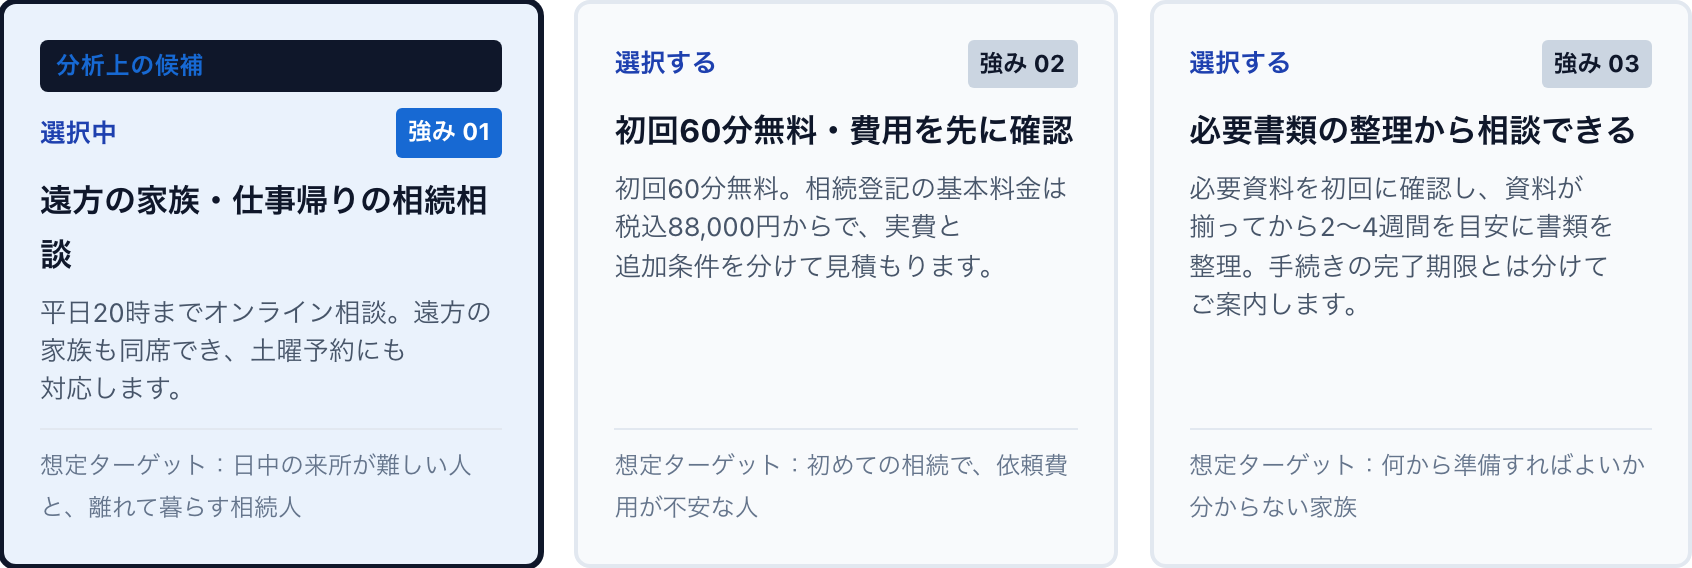
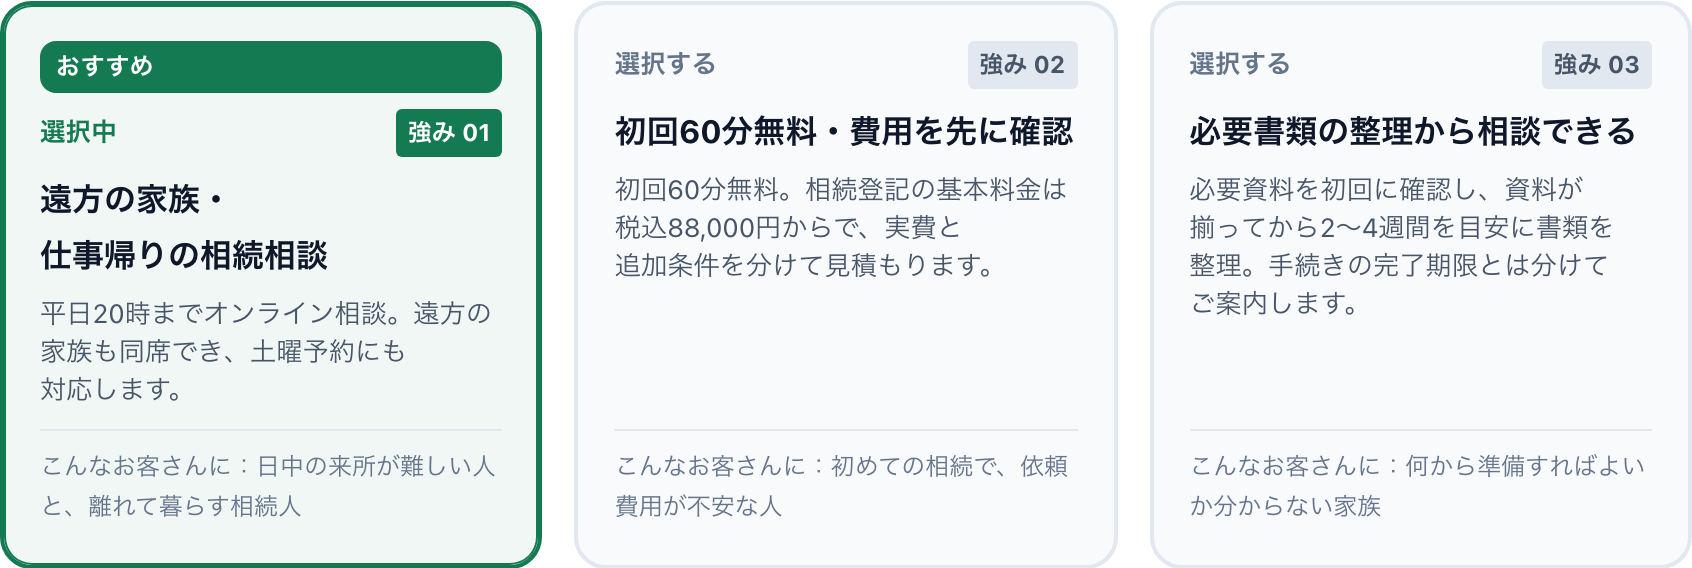
fix(flow): 入力から結果・見守り開始まで行き止まりなく進めるように作り直し
- ホームページがない・Instagramだけの会社も「この名前で診断する」を主ボタンに（公開を先に求めない）。URLがあれば入れて診断も可能
- 開発中（AIキー未設定・非本番）は本物と同じ段階表示のあと見本の結果へ進むデモに。結果・見守り画面に「デモ・あなたの結果ではありません」を明示（本番では無効）
- 名前だけの診断中は「◯◯を調べています」と表示
- 強み選択を平易な言葉とブランド色に、下書き後に次の一手（毎週の見守り14日間無料）を表示
- 結果画面の上部ナビを本文の見出しと一致、スマホでは最小限に
- トップ掲載の実画面を撮り直し

diff --git a/components/scan-progress.tsx b/components/scan-progress.tsx
@@ -70,6 +70,7 @@ export function ScanProgress() {
     extraProduct ? extraProduct : socialInfo.username ? socialInfo.username : rawInput
   );
   const [directCreating, setDirectCreating] = useState(false);
+  const [altUrl, setAltUrl] = useState("");
   const [directDraft, setDirectDraft] = useState<{ profileId: string; token: string; slug: string } | null>(null);
 
   const createDirectProfile = useCallback(async () => {
@@ -125,9 +126,9 @@ export function ScanProgress() {
     }
   }, [directDraft, router]);
 
-  const startScan = useCallback(async (inputUrl: string) => {
+  const startScan = useCallback(async (inputUrl: string, nameOnly = "") => {
     const targetUrl = normalize(inputUrl);
-    if (!targetUrl) {
+    if (!targetUrl && !nameOnly) {
       setPhase("failed");
       setError("診断する公開サイトがありません。");
       return;
@@ -142,9 +143,30 @@ export function ScanProgress() {
     setMessage("診断を準備しています。");
     setDetail("診断先を確認しています");
     try {
-      const response = await fetch("/api/scan", { method: "POST", headers: { "content-type": "application/json", accept: "application/x-ndjson" }, body: JSON.stringify({ url: targetUrl }), signal: abort.signal });
+      const response = await fetch("/api/scan", { method: "POST", headers: { "content-type": "application/json", accept: "application/x-ndjson" }, body: JSON.stringify(targetUrl ? { url: targetUrl } : { name: nameOnly }), signal: abort.signal });
       if (!response.ok) {
-        const data = await response.json().catch(() => ({}));
+        const data = await response.json().catch(() => ({})) as { error?: string; demo?: boolean };
+        if (data.demo) {
+          // 開発中のデモ：本物と同じ段階表示のあと、見本のお店の結果へ進む（結果画面に「デモ」と明記）
+          for (const [index, item] of steps.entries()) {
+            if (abort.signal.aborted) return;
+            setStage(item.stage);
+            setProgress(Math.round(((index + 1) / steps.length) * 95));
+            setMessage(`${item.label}…（デモ）`);
+            setDetail("AIの接続前のため、見本のお店のデータで流れを表示しています");
+            await new Promise((resolve) => setTimeout(resolve, 700));
+          }
+          if (abort.signal.aborted) return;
+          setProgress(100); setStage("complete"); setMessage("結果をまとめました。");
+          router.replace("/result?sample=1&demo=1");
+          return;
+        }
+        if (!targetUrl) {
+          // ホームページなしの診断は、先に御社のページの下書きをつくってから行う
+          setPhase("no_site");
+          setError(data.error || "ホームページなしの診断は、先に御社のページの下書きをつくってから行います。");
+          return;
+        }
         throw new Error(data.error || `診断を開始できませんでした (${response.status})`);
       }
       if (!response.body) throw new Error("診断の進行状況を取得できませんでした。");
@@ -293,12 +315,12 @@ export function ScanProgress() {
       : `「${displayInput(rawInput)}」の診断を始めます`;
 
     const descText = isSocial
-      ? "Instagramの公開情報をもとに、AIが読める御社のページの下書きをつくります。載せる内容はあなたが確認してから決めます。公開したあと、そのページをもとにAIの答えを診断します。"
+      ? "このInstagramのお店の名前で、AIの答えに御社が出ているかを調べます。AIが読めるページは、結果を見たあとにつくれます。"
       : isProduct
-      ? "入力された商品・サービス名をもとに、AIが読めるページの下書きをつくります。価格・実績など、確認できない内容は補いません。公開したあと、AIの答えを診断します。"
+      ? "この商品・サービスの名前で、AIの答えに出ているかを調べます。AIが読めるページは、結果を見たあとにつくれます。"
       : isDirectPreview
       ? "下書きの内容を確かめてから公開できます。公開したあと、このページをもとにAIの答えを診断します。AIの答え・順位・集客は保証しません。"
-      : "ホームページは見つかりませんでしたが、店名だけでも大丈夫です。まずAIが読める御社のページの下書きをつくり、公開したあと、そのページをもとにAIの答えを診断します。";
+      : "ホームページが見つからなくても大丈夫です。この名前で、AIの答えに御社が出ているかを調べます。";
 
     const brandLabel = isSocial
       ? "店舗名・屋号・ブランド名"
@@ -328,7 +350,7 @@ export function ScanProgress() {
             <h1>{titleText}</h1>
             <p className="no-site-desc">{descText}</p>
 
-            <div className="no-site-form-grid no-site-form-grid--single">
+            {isDirectPreview ? <div className="no-site-form-grid no-site-form-grid--single">
               <div className="no-site-input-group">
                 <span>{isDirectPreview ? "公開する名称" : brandLabel}</span>
                 <p className="input-readonly">{directBrandName || rawInput}</p>
@@ -339,22 +361,37 @@ export function ScanProgress() {
                   <p className="no-site-input-note">入力された名称{extraSocial || socialInfo.isSocial ? "・SNS参照先" : ""}{extraProduct ? "・商品／サービス名" : ""}{extraUrl ? "・参照元URL" : ""}。未確認の業種・所在地・価格・実績は追加していません。</p>
                 </div>
               ) : null}
-            </div>
+            </div> : null}
 
             <div className="no-site-action-row">
               <div className="no-site-target-brand">
-                <span>この名前で進みます</span>
+                <span>この名前で調べます</span>
                 <strong>{socialInfo.displayLabel || directBrandName || rawInput}</strong>
               </div>
-              <button
-                className="button button-primary scan-resolve-start"
-                type="button"
-                disabled={directCreating}
-                onClick={() => void (isDirectPreview ? publishDirectProfile() : createDirectProfile())}
-              >
-                {directCreating ? (isDirectPreview ? "公開処理中…" : "下書きを作成中…") : buttonText} <ArrowIcon />
-              </button>
+              {isDirectPreview ? (
+                <button className="button button-primary scan-resolve-start" type="button" disabled={directCreating} onClick={() => void publishDirectProfile()}>
+                  {directCreating ? "公開処理中…" : buttonText} <ArrowIcon />
+                </button>
+              ) : (
+                <button className="button button-primary scan-resolve-start" type="button" disabled={directCreating} onClick={() => void startScan("", directBrandName || rawInput)}>
+                  この名前で診断する（無料） <ArrowIcon />
+                </button>
+              )}
             </div>
+            {!isDirectPreview ? (
+              <form className="no-site-url-row" onSubmit={(event) => { event.preventDefault(); if (altUrl.trim()) void startScan(altUrl.trim()); }}>
+                <label htmlFor="no-site-url">ホームページがある場合は、URLを入れるとより正確に調べられます</label>
+                <div>
+                  <input id="no-site-url" type="url" inputMode="url" placeholder="https://" value={altUrl} onChange={(event) => setAltUrl(event.target.value)} />
+                  <button className="button button-secondary" type="submit" disabled={!altUrl.trim()}>このURLで診断</button>
+                </div>
+              </form>
+            ) : null}
+            {!isDirectPreview ? (
+              <button className="text-button no-site-draft-link" type="button" disabled={directCreating} onClick={() => void createDirectProfile()}>
+                {directCreating ? "下書きを作成中…" : "先にAIが読めるページの下書きをつくる →"}
+              </button>
+            ) : null}
             {directDraft ? <ProfileManagementLink capability={{ profileId: directDraft.profileId, token: directDraft.token }} /> : null}
             {error ? <p className="form-error no-site-error">{error}</p> : null}
             <small className="no-site-small-note">{noteText}</small>
@@ -452,7 +489,7 @@ export function ScanProgress() {
     <section className="scan-stage shell">
       <div className="scan-stage-main">
         <p className="overline">診断中</p>
-        <h1>{targetHost || "会社サイト"}を確認しています。</h1>
+        <h1>{targetHost ? `${targetHost}を確認しています。` : `「${displayInput(rawInput)}」を調べています。`}</h1>
         <p className="scan-message">{message}</p>
         <div className="scan-progress-track" aria-label={`進捗 ${Math.round(progress)}%`}><span style={{ width: `${progress}%` }} /></div>
         <div className="scan-progress-summary"><strong>{Math.round(progress)}%</strong><span>{detail}</span></div>

diff --git a/app/globals.css b/app/globals.css
@@ -3877,8 +3877,7 @@ svg { width: 1.1em; height: 1.1em; }
 .report-page .report-watch h2 { margin: 12px 0; color: var(--bg); font-size: clamp(26px, 3.2vw, 36px); line-height: 1.4; letter-spacing: 0; }
 .report-page .report-watch p { color: var(--border-strong); font-size: 16px; line-height: 1.8; }
 .report-page .report-watch ul { flex-direction: column; gap: 8px; margin-top: 20px; font-size: 15px; color: var(--bg); }
-.report-page .report-watch li + li::before { content: none; }
-.report-page .report-watch li::before { content: "✓"; color: var(--green-bright); font-weight: 700; margin-right: 8px; }
+.report-page .report-watch li::before, .report-page .report-watch li + li::before { content: "✓"; color: var(--green-bright); font-weight: 700; margin-right: 8px; }
 .report-page .report-watch form { background: var(--bg); border-radius: 20px; padding: 24px; display: flex; flex-direction: column; gap: 10px; }
 .report-page .report-watch label { font-size: 15px; }
 .report-page .report-watch form .button { justify-content: center; min-height: 56px; font-size: 16px; white-space: normal; }
@@ -4110,3 +4109,29 @@ svg { width: 1.1em; height: 1.1em; }
 .rp-hero-cta .button-secondary { background: transparent; color: var(--bg); border-color: rgba(255, 255, 255, 0.4); }
 @media (max-width: 640px) { .rp-hero-cta-actions, .rp-hero-cta-actions .button { width: 100%; } }
 .pg-hero--compact + .pg-doc { padding-top: var(--sp-4); }
+.rp-demo-banner { background: var(--warn); color: var(--bg); font-size: 15px; line-height: 1.7; padding: 12px 0; }
+.rp-demo-banner strong { margin-right: 6px; }
+.no-site-draft-link { display: block; margin: 14px auto 0; font-size: 14px; color: var(--text-muted); text-decoration: underline; background: none; border: 0; cursor: pointer; }
+.scan-page h1 { word-break: auto-phrase; text-wrap: balance; }
+.no-site-url-row { display: flex; flex-direction: column; gap: 8px; margin-top: 18px; padding-top: 18px; border-top: 1px dashed var(--border-strong); }
+.no-site-url-row label { font-size: 14px; color: var(--text-muted); }
+.no-site-url-row > div { display: flex; gap: 8px; }
+.no-site-url-row input { flex: 1; min-width: 0; height: 48px; border: 1px solid var(--border-strong); border-radius: 10px; padding: 0 12px; font-size: 16px; }
+@media (max-width: 640px) { .no-site-url-row > div { flex-direction: column; } }
+.saved-redo { display: block; margin-top: 10px; background: none; border: 0; padding: 0; font-size: 14px; color: var(--text-muted); text-decoration: underline; cursor: pointer; }
+.saved-links { display: flex; flex-wrap: wrap; gap: 10px; }
+/* 結果・見守りの上部バー：スマホでは本題を上に出すため最小限に */
+@media (max-width: 640px) {
+  .report-subbar-nav, .report-subbar-brand { display: none !important; }
+  .report-subbar-inner { padding-top: 8px; padding-bottom: 8px; gap: 6px; }
+}
+[id^="step-"] { scroll-margin-top: 16px; }
+/* 強みの選択カード：ブランド色（緑）に統一し、読みやすく */
+.weapon-card { border-radius: 16px !important; }
+.weapon-card.selected { border-color: var(--brand) !important; background: var(--mint-panel) !important; box-shadow: 0 0 0 1px var(--brand) inset !important; }
+.card-top-recommend-badge { background: var(--brand) !important; color: var(--bg) !important; font-weight: 700; border-radius: 8px !important; }
+.weapon-radio { color: var(--text-subtle) !important; }
+.weapon-radio.is-selected { color: var(--brand) !important; font-weight: 700; }
+.weapon-card .weapon-tag { background: var(--border) !important; color: var(--text-muted) !important; }
+.weapon-card.selected .weapon-tag { background: var(--brand) !important; color: var(--bg) !important; }
+.weapon-card h4 { word-break: auto-phrase; text-wrap: balance; }

diff --git a/components/public-profile-actions.tsx b/components/public-profile-actions.tsx
@@ -119,8 +119,7 @@ export function PublicProfileActions({ result, sample = false, selectedStrategyI
       {/* AI下書きガイド案内 */}
       <div className="profile-draft-guide">
         <span className="profile-draft-guide-label">
-          <span className="ui-badge">AI下書き候補</span>
-          公開情報から抽出した特徴候補（内容確認用）
+          御社の強みの候補（1つ選んでください）
         </span>
         <span className="profile-draft-guide-note">※ 公開ページに載せるのは参照元で確認できる情報だけです</span>
       </div>
@@ -147,7 +146,7 @@ export function PublicProfileActions({ result, sample = false, selectedStrategyI
             >
               {isRec ? (
               <div className="card-top-recommend-badge">
-                  分析上の候補
+                  おすすめ
                 </div>
               ) : null}
               <div className="weapon-card-header">
@@ -158,7 +157,7 @@ export function PublicProfileActions({ result, sample = false, selectedStrategyI
               </div>
               <h4>{strat.name}</h4>
               <p className="weapon-desc">{strat.coreThesis}</p>
-              <small className="weapon-target">想定ターゲット：{strat.targetMarket}</small>
+              <small className="weapon-target">こんなお客さんに：{strat.targetMarket}</small>
             </div>
           );
         })}
@@ -208,7 +207,7 @@ export function PublicProfileActions({ result, sample = false, selectedStrategyI
                 {!sample && profileToken ? <ProfileManagementLink capability={{ profileId: profile.id, token: profileToken }} /> : null}
               </div> : null}
               <span className="saved-badge">
-                {sample ? "見本です。実際の公開・契約は行われません。" : isPublished ? "公開しました：AIが読める御社のページができました。" : "AI推薦データの下書きを作成しました。公開前に内容を確認してください。"}
+                {sample ? "見本です。実際はここで下書きの中身を確かめてから公開します（見本では公開・契約は行われません）。" : isPublished ? "公開しました：AIが読める御社のページができました。" : "下書きができました。中身を確かめて、よければ公開してください。"}
               </span>
               <div className="saved-links">
                 {isPublished ? (
@@ -247,15 +246,16 @@ export function PublicProfileActions({ result, sample = false, selectedStrategyI
                     {busy === "deploy" ? "公開処理中…" : "内容を確認して公開する"} <ArrowIcon />
                   </button>
                 )}
-                <button
-                  type="button"
-                  className="text-button"
-                  disabled={busy !== "" || (!sample && profile?.status === "published")}
-                  onClick={() => setIsSaved(false)}
-                >
-                  下書きを作り直す
-                </button>
+                <a className="button button-secondary" href="#step-3">次へ：毎週の見守りを始める（14日間無料）</a>
               </div>
+              <button
+                type="button"
+                className="saved-redo"
+                disabled={busy !== "" || (!sample && profile?.status === "published")}
+                onClick={() => setIsSaved(false)}
+              >
+                別の強みで下書きを作り直す
+              </button>
 
             </div>
           )}

diff --git a/components/result-client.tsx b/components/result-client.tsx
@@ -36,10 +36,11 @@ export function ResultClient({ showSellerLinks = false }: { showSellerLinks?: bo
   const params = useSearchParams();
   const sample = params.get("sample") === "1";
   const scanId = params.get("id");
-  return <ResultView key={readoutIdentity(sample, scanId)} sample={sample} scanId={scanId} showSellerLinks={showSellerLinks} />;
+  const demo = sample && params.get("demo") === "1";
+  return <ResultView key={readoutIdentity(sample, scanId)} sample={sample} scanId={scanId} showSellerLinks={showSellerLinks} demo={demo} />;
 }
 
-function ResultView({ sample, scanId, showSellerLinks }: { sample: boolean; scanId: string | null; showSellerLinks: boolean }) {
+function ResultView({ sample, scanId, showSellerLinks, demo = false }: { sample: boolean; scanId: string | null; showSellerLinks: boolean; demo?: boolean }) {
   const router = useRouter();
   const lifecycle = useRef<AbortController | null>(null);
   const [rawResult, setResult] = useState<ScanResult | null>(sample ? sampleResult : null);
@@ -71,7 +72,7 @@ function ResultView({ sample, scanId, showSellerLinks }: { sample: boolean; scan
 
   async function startWatch(event: FormEvent) {
     event.preventDefault();
-    if (sample) { router.push("/watch?sample=1"); return; }
+    if (sample) { router.push(demo ? "/watch?sample=1&demo=1" : "/watch?sample=1"); return; }
     if (!scanId) return;
     const signal = lifecycle.current!.signal;
     setWatchBusy(true); setError("");
@@ -100,6 +101,11 @@ function ResultView({ sample, scanId, showSellerLinks }: { sample: boolean; scan
   return <main className="report-page">
     <SiteHeader compact context={headerContext} />
     <ReportSubbar brandName={result.discovery.brandName} sample={sample} router={router} />
+    {demo ? (
+      <div className="rp-demo-banner" role="status">
+        <div className="shell"><strong>デモ表示です。</strong>AIの接続前のため、見本のお店（{result.discovery.brandName}）の結果で流れを見せています。あなたの会社の結果ではありません。</div>
+      </div>
+    ) : null}
 
     {/* ① 結論 → ② 御社は何番目か → ③ どの質問で負けているか（ホームの「無料の診断で分かる3つ」と同じ順） */}
     <ReportHero result={result} sample={sample} host={host} hasMeasurement={hasMeasurement} readout={readout} topCompetitorName={topCompetitor?.name} />
@@ -195,15 +201,15 @@ function ReportSubbar({ brandName, sample, router }: { brandName: string; sample
         </div>
 
         <nav aria-label="診断ステップ" className="report-subbar-nav">
-          <a href="#step-1">① 結論</a>
-          <a href="#step-2">② 次にやること</a>
-          <a href="#step-3">③ 週次見守り</a>
+          <a href="#step-1">結果</a>
+          <a href="#step-2">取り返す</a>
+          <a href="#step-3">毎週の見守り</a>
         </nav>
 
         <div>
           {!showCorrectionForm ? (
             <button type="button" className="report-subbar-correction-btn" onClick={() => setShowCorrectionForm(true)}>
-              ※対象店舗・地域を変更する
+              別の会社・地域で診断し直す
             </button>
           ) : (
             <form

diff --git a/components/watch-client.tsx b/components/watch-client.tsx
@@ -47,7 +47,8 @@ export function WatchClient({ showSellerLinks = false }: { showSellerLinks?: boo
   }, [sample, urlToken]);
 
   const token = urlToken || sessionToken;
-  return <WatchViewClient key={readoutIdentity(sample, token)} sample={sample} token={token} showSellerLinks={showSellerLinks} />;
+  const demo = sample && params.get("demo") === "1";
+  return <WatchViewClient key={readoutIdentity(sample, token)} sample={sample} token={token} showSellerLinks={showSellerLinks} demo={demo} />;
 }
 
 /** ライバル表は上位5社と、変化があった会社（新規・未出現・増減）だけを出す */
@@ -470,7 +471,7 @@ function useWatchChange(watch: WatchView | null) {
   }, [watch]);
 }
 
-function WatchViewClient({ sample, token, showSellerLinks }: { sample: boolean; token: string; showSellerLinks: boolean }) {
+function WatchViewClient({ sample, token, showSellerLinks, demo = false }: { sample: boolean; token: string; showSellerLinks: boolean; demo?: boolean }) {
   const lifecycle = useRef<AbortController | null>(null);
   const emailRevision = useRef(0);
   const [watch, setWatch] = useState<WatchView | null>(sample ? toPublicWatch(sampleWatch()) : null);
@@ -633,6 +634,11 @@ function WatchViewClient({ sample, token, showSellerLinks }: { sample: boolean; 
         </div>
       </div>
 
+      {sample && demo ? (
+        <div className="rp-demo-banner" role="status">
+          <div className="shell"><strong>デモ表示です。</strong>見守りを始めると、毎週この画面で「名前が出た質問」の変化が届きます。いま見ているのは見本のお店の画面です。</div>
+        </div>
+      ) : null}
       <section className="rp-hero wt-hero">
         <div className="shell rp-hero-inner">
           <div className="wt-hero-row">
@@ -649,7 +655,7 @@ function WatchViewClient({ sample, token, showSellerLinks }: { sample: boolean; 
                 {profileUrl ? "公開中のページを見る ↗" : "診断結果から公開情報を確認 ↗"}
               </Link>
               {sample ? (
-                <Link className="button button-primary" href="/pricing">毎週、変化を見る <ArrowIcon /></Link>
+                <Link className="button button-primary" href="/pricing">料金を見る <ArrowIcon /></Link>
               ) : (
                 <button className="button button-primary" type="button" onClick={() => void manageBilling()} disabled={checkoutBusy}>
                   {checkoutBusy ? "準備中…" : watch.paid ? "契約を管理" : "毎週、変化を見る"}

diff --git a/app/api/scan/route.ts b/app/api/scan/route.ts
@@ -31,7 +31,9 @@ export async function POST(request: Request) {
     return Response.json({ error: "診断の保存先を準備中です。時間を置いてお試しください。" }, { status: 503 });
   }
   if (!env.openAiKey) {
-    return Response.json({ error: "診断に必要なAI接続を準備中です。時間を置いてお試しください。" }, { status: 503 });
+    // 開発中（AIキー未設定）だけ、見本データで流れを最後まで確認できるデモに切り替える。本番では常にfalse。
+    const demo = process.env.NODE_ENV !== "production";
+    return Response.json({ error: "診断に必要なAI接続を準備中です。時間を置いてお試しください。", demo }, { status: 503 });
   }
   let targetUrl: string;
   try {
